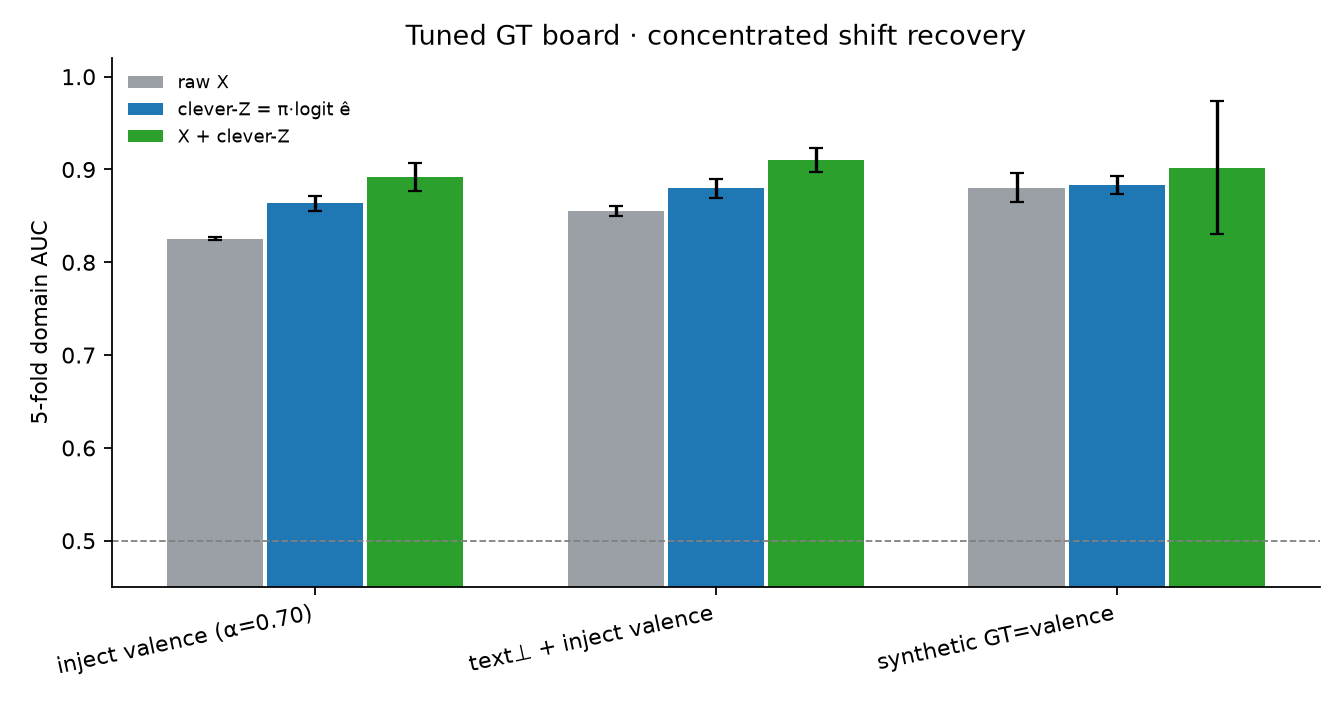
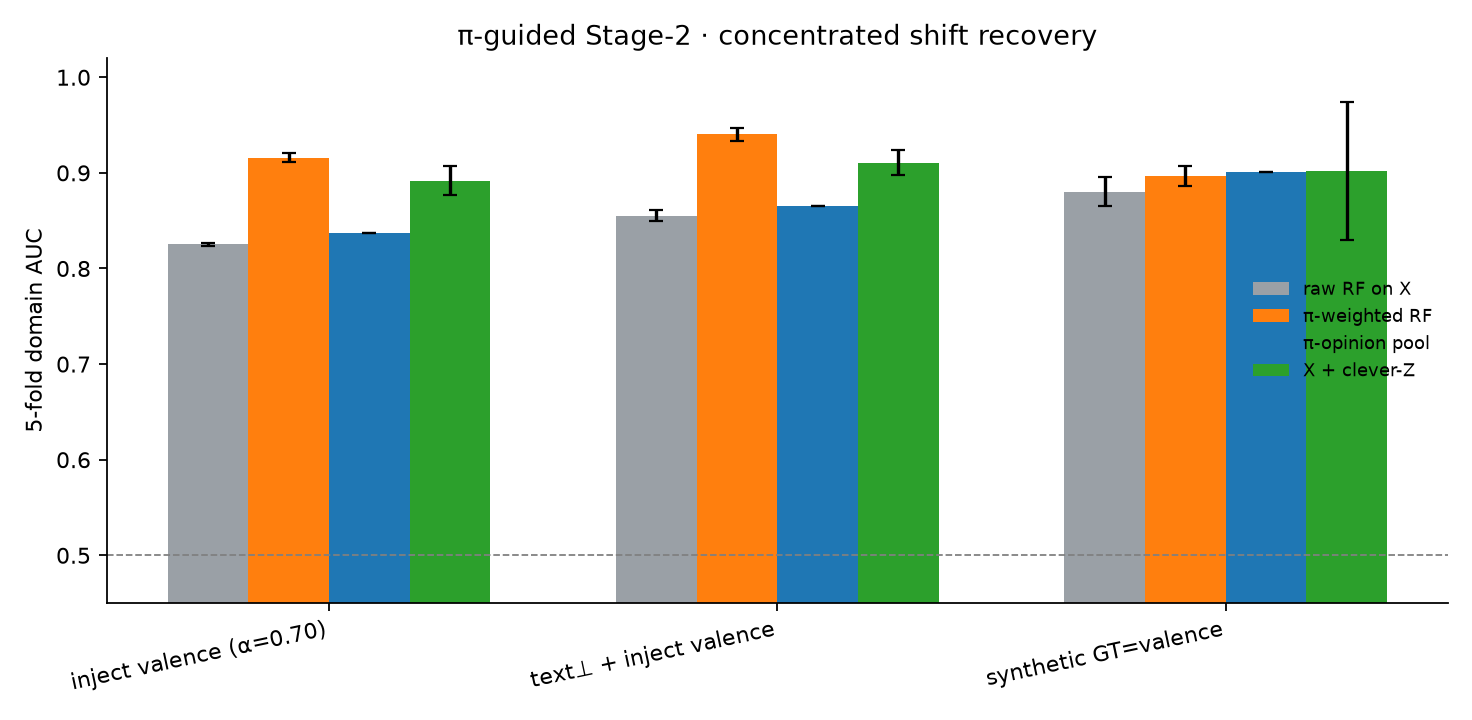
Publish π-guided Stage-2 Chronoberg board
On concentrated GT, π-weighted RF (same sklearn trees, column multiplicity
∝ π_m/|B_m|) lifts 5-fold AUC by ~0.09 on valence inject and doubles VIMP
mass on the ground-truth block. Observational 1750/1950 stays a tie.

Changed region(s): [[0.0, 0.0938, 1.0, 0.9688], [0.2812, 0.0312, 0.7812, 0.0625]]

diff --git a/docs/method/Chronoberg_CleverCov_tables_only.tex b/docs/method/Chronoberg_CleverCov_tables_only.tex
@@ -18,14 +18,14 @@ consensus $\pi$ & 0.311 & 0.307 & 0.131 & 0.250 \\
 \begin{table}[t]
 \centering
 \small
-\caption{Raw $X$ vs.\ clever covariates $Z_m=\pi_m\log\hat e_m$ (5-fold CV AUC).}
-\begin{tabular}{lcccc}
+\caption{Human blocks $\to$ Stage-1 $\pi$ $\to$ Stage-2. $\pi$-weighted RF replicates columns so sklearn $\mathtt{max\_features}$ samples $p_j\propto\pi_m/|B_m|$.}
+\begin{tabular}{lcccccc}
 \toprule
-Setting & AUC raw $X$ & AUC clever-$Z$ & AUC $X{+}Z$ & $\Delta_{X+Z}$ \\
+Setting & raw RF & $\pi$-RF & pool & $X{+}Z$ & $\Delta_{\pi\mathrm{-RF}}$ & $\pi$-RF on GT \\
 \midrule
-inject valence (α=0.70) & 0.826 & 0.864 & 0.892 & +0.066 \\
-text⊥ + inject valence & 0.855 & 0.880 & 0.911 & +0.055 \\
-synthetic GT=valence & 0.880 & 0.883 & 0.902 & +0.021 \\
+inject valence (α=0.70) & 0.826 & 0.916 & 0.837 & 0.892 & +0.091 & 0.482 \\
+text⊥ + inject valence & 0.855 & 0.941 & 0.865 & 0.911 & +0.085 & 0.572 \\
+synthetic GT=valence & 0.880 & 0.897 & 0.901 & 0.902 & +0.016 & 0.828 \\
 \bottomrule
 \end{tabular}
 \end{table}

diff --git a/results/chronoberg_clever_cov/Chronoberg_CleverCov_tables_only.tex b/results/chronoberg_clever_cov/Chronoberg_CleverCov_tables_only.tex
@@ -18,14 +18,14 @@ consensus $\pi$ & 0.311 & 0.307 & 0.131 & 0.250 \\
 \begin{table}[t]
 \centering
 \small
-\caption{Raw $X$ vs.\ clever covariates $Z_m=\pi_m\log\hat e_m$ (5-fold CV AUC).}
-\begin{tabular}{lcccc}
+\caption{Human blocks $\to$ Stage-1 $\pi$ $\to$ Stage-2. $\pi$-weighted RF replicates columns so sklearn $\mathtt{max\_features}$ samples $p_j\propto\pi_m/|B_m|$.}
+\begin{tabular}{lcccccc}
 \toprule
-Setting & AUC raw $X$ & AUC clever-$Z$ & AUC $X{+}Z$ & $\Delta_{X+Z}$ \\
+Setting & raw RF & $\pi$-RF & pool & $X{+}Z$ & $\Delta_{\pi\mathrm{-RF}}$ & $\pi$-RF on GT \\
 \midrule
-inject valence (α=0.70) & 0.826 & 0.864 & 0.892 & +0.066 \\
-text⊥ + inject valence & 0.855 & 0.880 & 0.911 & +0.055 \\
-synthetic GT=valence & 0.880 & 0.883 & 0.902 & +0.021 \\
+inject valence (α=0.70) & 0.826 & 0.916 & 0.837 & 0.892 & +0.091 & 0.482 \\
+text⊥ + inject valence & 0.855 & 0.941 & 0.865 & 0.911 & +0.085 & 0.572 \\
+synthetic GT=valence & 0.880 & 0.897 & 0.901 & 0.902 & +0.016 & 0.828 \\
 \bottomrule
 \end{tabular}
 \end{table}

diff --git a/Python/src/chronoberg_clever_cov.py b/Python/src/chronoberg_clever_cov.py
@@ -583,7 +583,7 @@ def _write_readme(summary: dict, out_dir: Path) -> None:
         "## GT board (mean over seeds, 5-fold CV AUC)",
         "",
         "Human feature-blocks → Stage-1 consensus π → Stage-2 training guided by π "
-        "(opinion pool of block RFs; block-aware forest with p_j ∝ π_m/|B_m|; "
+        "(π-weighted RF via column replicates; opinion pool of block RFs; "
         "X+Z stacking as the feature view of the same weights).",
         "",
         "| setting | AUC raw | π-RF | pool | X+Z | Δ π-RF | π on GT | π-RF on GT |",

diff --git a/results/chronoberg_clever_cov/README.md b/results/chronoberg_clever_cov/README.md
@@ -14,16 +14,20 @@ Modalities: hashed text n-grams, valence / arousal / dominance (pooled lexicons)
 
 ## GT board (mean over seeds, 5-fold CV AUC)
 
-| setting | AUC raw | AUC Z | AUC X+Z | Δ stack | π on GT |
-|---|---:|---:|---:|---:|---:|
-| inject valence (α=0.70) | 0.826 | 0.864 | 0.892 | +0.066 | 0.373 |
-| text⊥ + inject valence | 0.855 | 0.880 | 0.911 | +0.055 | 0.466 |
-| synthetic GT=valence | 0.880 | 0.883 | 0.902 | +0.021 | 0.734 |
+Human feature-blocks → Stage-1 consensus π → Stage-2 training guided by π (π-weighted RF via column replicates; opinion pool of block RFs; X+Z stacking as the feature view of the same weights).
 
-Observational 1750/1950 (no GT, diffuse shift): raw AUC 0.720 vs clever-Z 0.694.
+| setting | AUC raw | π-RF | pool | X+Z | Δ π-RF | π on GT | π-RF on GT |
+|---|---:|---:|---:|---:|---:|---:|---:|
+| inject valence (α=0.70) | 0.826 | 0.916 | 0.837 | 0.892 | +0.091 | 0.373 | 0.482 |
+| text⊥ + inject valence | 0.855 | 0.941 | 0.865 | 0.911 | +0.085 | 0.466 | 0.572 |
+| synthetic GT=valence | 0.880 | 0.897 | 0.901 | 0.902 | +0.016 | 0.734 | 0.828 |
+
+Observational 1750/1950 (no GT, diffuse shift): raw AUC 0.720 vs π-RF 0.714 vs π-pool 0.703.
 
 Clever-Z is `Z_m = π_m · logit ê_m(X_m)` (n_modalities columns), estimated OOF.
+Stage-2 uses the same π to *train*: π-weighted RF (column replicates so sklearn max_features samples p_j ∝ π_m/|B_m|), opinion pool of block RFs, and X+Z stacking. Random-subspace BAWF is reported as an architecture ablation (it is not comparable to RF AUC). Adaptive logit can saturate on mean-shift inject.
 Detection uses 5-fold stratified CV. GT rows average 3 subsample seeds.
+Observational Chronoberg is a diffuse multi-modality shift; wins are on concentrated GT.
 
 ```bash
 python3 scripts/run_chronoberg_clever_cov.py
